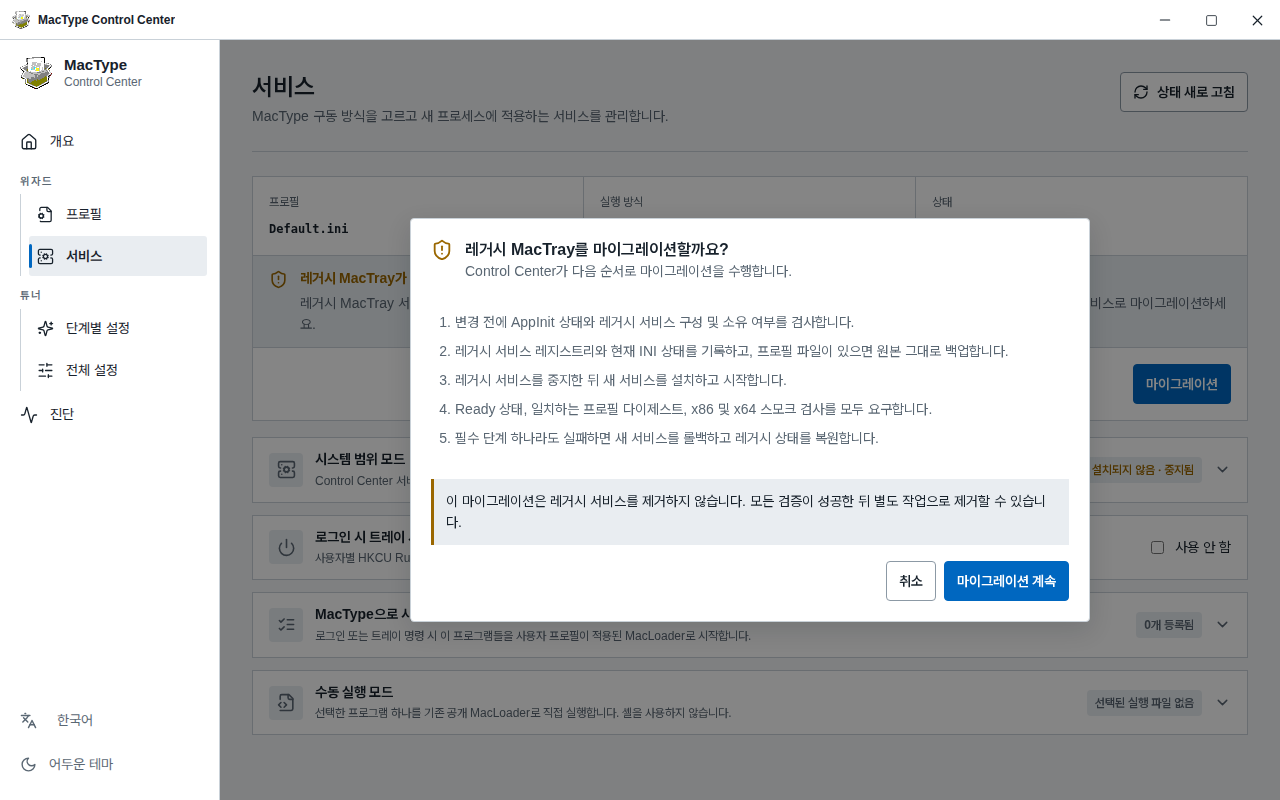
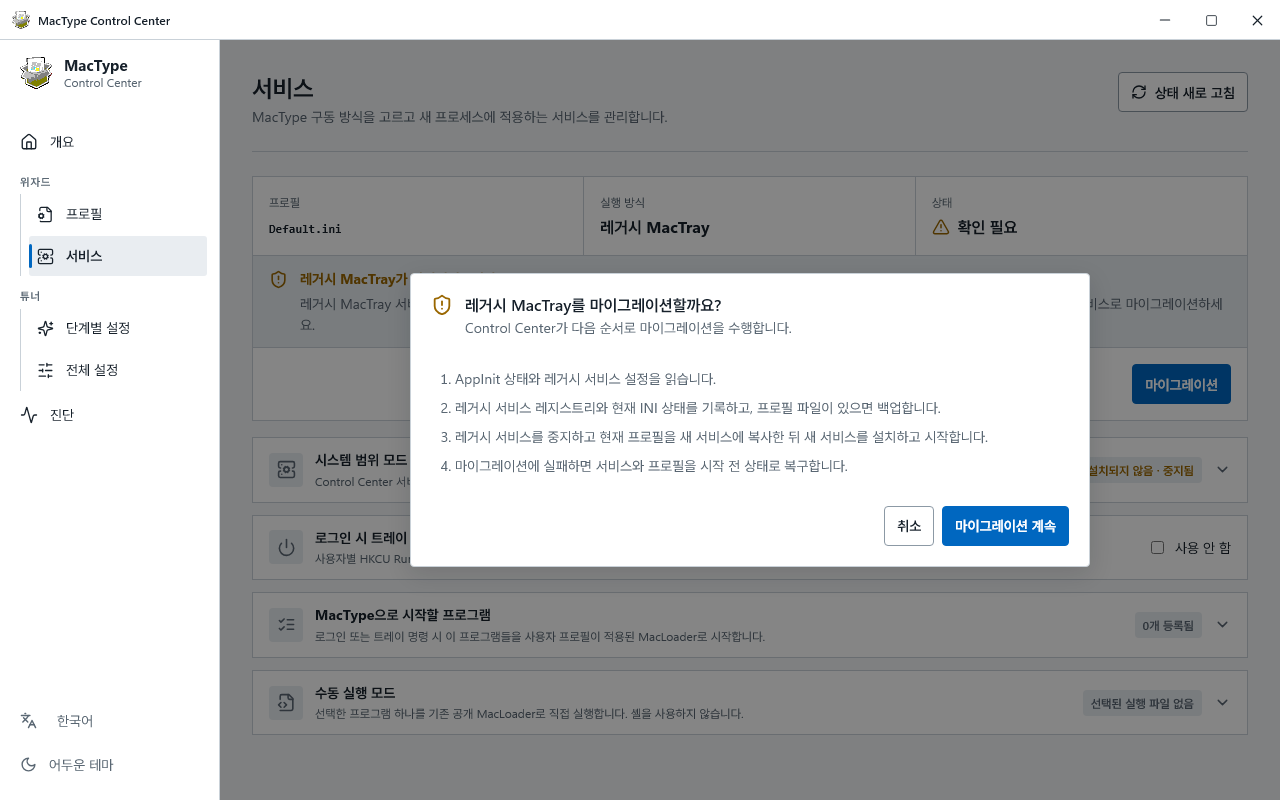
fix(i18n): describe migration actions directly

diff --git a/tests/frontend-gallery/gallery.spec.ts b/tests/frontend-gallery/gallery.spec.ts
@@ -1144,7 +1144,7 @@ test("a verified legacy service funnels activation through Migrate until it is r
 
   await legacy.getByRole("button", { name: "Migrate" }).click();
   await page.getByRole("dialog", { name: "Migrate legacy MacTray?" }).getByRole("button", { name: "Continue migration" }).click();
-  await expect(page.getByText("Migration to the new service passed verification.", { exact: true })).toBeVisible();
+  await expect(page.getByText("Migration to the new service completed.", { exact: true })).toBeVisible();
 
   await expect(legacy).toContainText("Stopped");
   await expect(openService.getByRole("button", { name: "Stop applying to new processes" })).toBeEnabled();
@@ -1170,7 +1170,7 @@ test("internal migration failures show only the localized diagnostics instructio
   }
 });
 
-test("legacy migration explains the verified transaction before it can continue", async ({ page }) => {
+test("legacy migration explains concrete actions and rollback before it can continue", async ({ page }) => {
   await page.goto("/?view=execution&gallery=1&lang=en&system-service=migration-available&legacy=migration-available", { waitUntil: "networkidle" });
 
   const migrationTrigger = page.locator("[data-service-summary]").getByRole("button", { name: "Migrate" });
@@ -1181,14 +1181,14 @@ test("legacy migration explains the verified transaction before it can continue"
   const continueMigration = dialog.getByRole("button", { name: "Continue migration" });
   await expect(dialog).toBeVisible();
   await expect(cancel).toBeFocused();
-  await expect(dialog).toContainText("AppInit and the legacy service configuration and ownership");
+  await expect(dialog).toContainText("Reads the AppInit state and legacy service configuration");
   await expect(dialog).toContainText("current INI state");
-  await expect(dialog).toContainText("when a profile file exists");
+  await expect(dialog).toContainText("backs up the profile file when present");
   await expect(dialog).toContainText("Stops the legacy service");
-  await expect(dialog).toContainText("installs and starts the new service");
-  await expect(dialog).toContainText("Ready health, matching profile digest, and x86 and x64 smoke checks");
-  await expect(dialog).toContainText("rolls back");
-  await expect(dialog).toContainText("does not remove the legacy service");
+  await expect(dialog).toContainText("copies the current profile to the new service");
+  await expect(dialog).toContainText("installs and starts it");
+  await expect(dialog).toContainText("restores the services and profile to their previous state");
+  await expect(dialog).not.toContainText(/verif|safe|Ready|digest|smoke|does not remove/i);
 
   await page.keyboard.press("Shift+Tab");
   await expect(continueMigration).toBeFocused();
@@ -1197,7 +1197,7 @@ test("legacy migration explains the verified transaction before it can continue"
   await page.keyboard.press("Escape");
   await expect(dialog).toHaveCount(0);
   await expect(migrationTrigger).toBeFocused();
-  await expect(page.getByText("Migration to the new service passed verification.", { exact: true })).toHaveCount(0);
+  await expect(page.getByText("Migration to the new service completed.", { exact: true })).toHaveCount(0);
 
   await migrationTrigger.click();
   await cancel.click();
@@ -1205,7 +1205,7 @@ test("legacy migration explains the verified transaction before it can continue"
 
   await migrationTrigger.click();
   await continueMigration.click();
-  await expect(page.getByText("Migration to the new service passed verification.", { exact: true })).toBeVisible();
+  await expect(page.getByText("Migration to the new service completed.", { exact: true })).toBeVisible();
   await expect(migrationTrigger).toHaveCount(0);
 });
 

diff --git a/control-center/src/pages/ExecutionPage.tsx b/control-center/src/pages/ExecutionPage.tsx
@@ -540,10 +540,8 @@ export function ExecutionPage({ ciSmoke = false, onReady }: { ciSmoke?: boolean;
               <li>{t("execution.migrationConfirmStrictCheck")}</li>
               <li>{t("execution.migrationConfirmBackup")}</li>
               <li>{t("execution.migrationConfirmSwitch")}</li>
-              <li>{t("execution.migrationConfirmVerify")}</li>
               <li>{t("execution.migrationConfirmRollback")}</li>
             </ol>
-            <p className="migration-confirmation-note">{t("execution.migrationConfirmRemoval")}</p>
             <div className="migration-confirmation-actions">
               <button className="button secondary" onClick={closeMigrationConfirmation} ref={migrationCancelRef} type="button">{t("execution.migrationCancel")}</button>
               <button className="button primary" disabled={!executionView.canMigrateLegacy} onClick={() => void confirmMigration()} type="button">{t("execution.migrationContinue")}</button>

diff --git a/doc/gemini-localization-gallery/README.md b/doc/gemini-localization-gallery/README.md
@@ -31,8 +31,8 @@
 
 ## 3. 레거시 서비스 마이그레이션 확인
 
-추상적인 “검증 가능하고 되돌릴 수 있는 마이그레이션” 소개를 줄였다. 실제
-검사·백업·전환·확인·롤백 절차는 그대로 남겼다.
+`Ready`, 프로필 다이제스트, 스모크 검사 같은 내부 성공 조건과 안전성 강조를
+없앴다. 설정 읽기, 백업, 프로필 복사, 서비스 전환과 실패 시 복구만 남겼다.
 
 ### 변경 전
 
